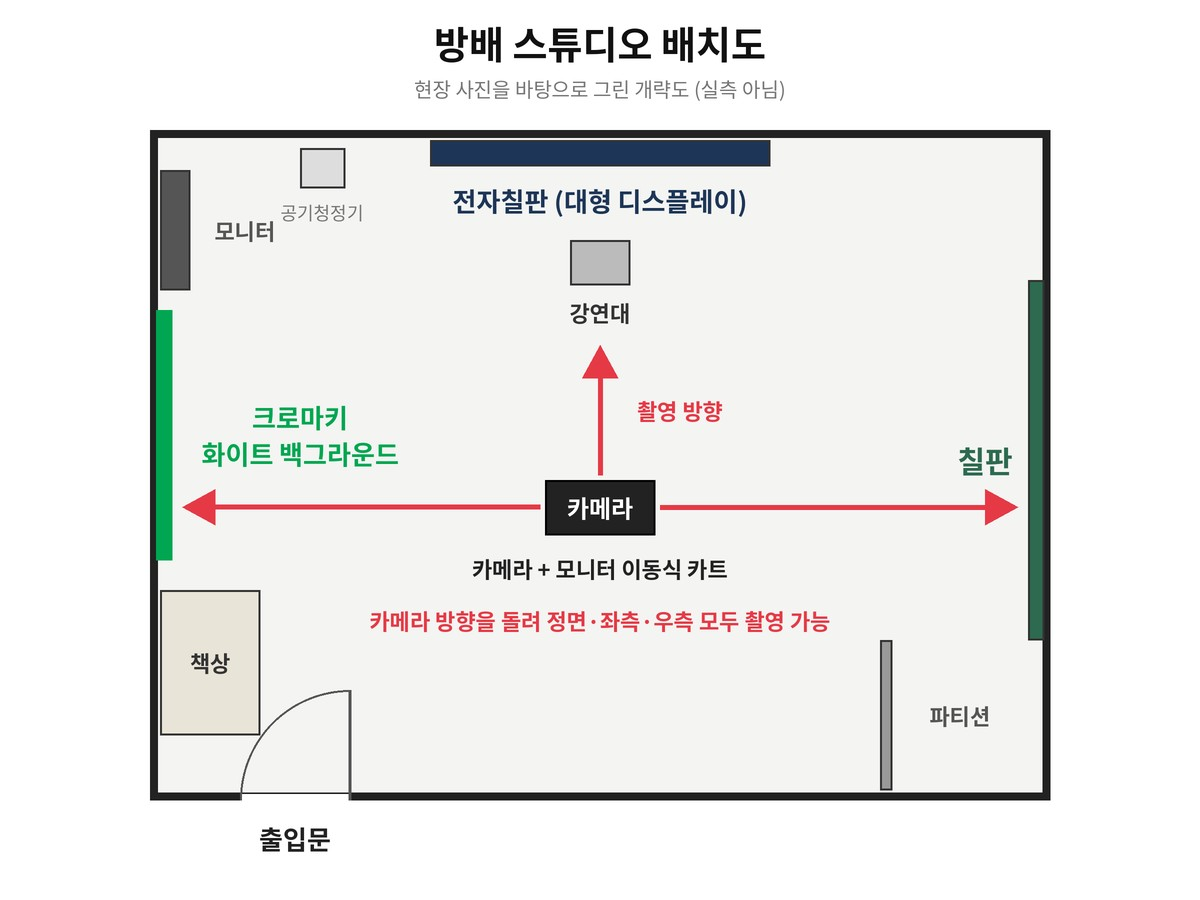
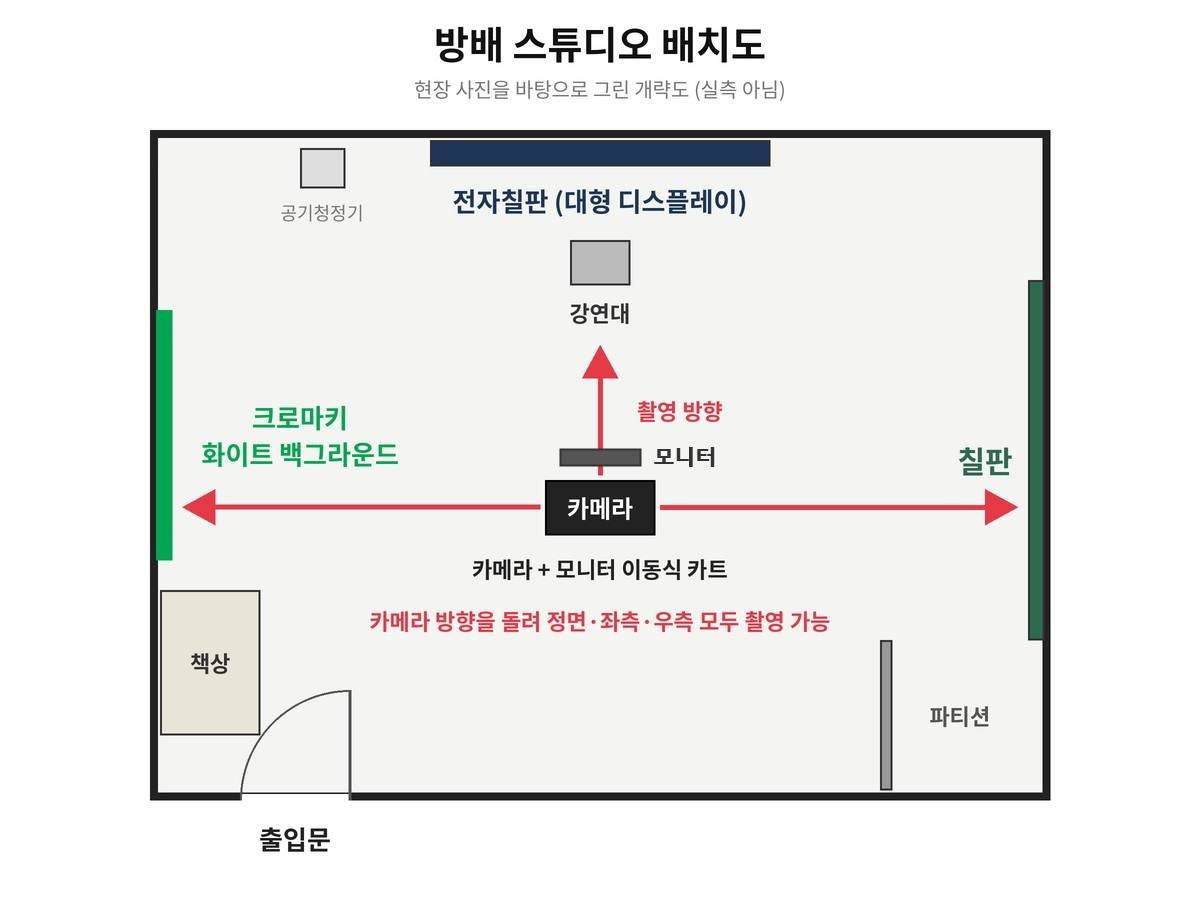
방배 배치도: 좌측 모니터 제거, 카메라 앞에 모니터 배치 / 렌즈 mm 표기
- img/bangbae-floorplan.jpg·webp 수정, 캐시 버전 20261126m
- 장비 DB 렌즈·카메라 비고 mm 표기(운영 D1 직접 수정), 홈·방배점 기본 내용 갱신

Changed region(s): [[0.1233, 0.1867, 0.2467, 0.3422], [0.4625, 0.4978, 0.6167, 0.5289]]

diff --git a/bangbae/index.html b/bangbae/index.html
@@ -262,10 +262,10 @@
             <figcaption>크로마키와 LED 조명</figcaption>
           </figure>
           <figure class="gallery-item gallery-item-plan">
-            <button type="button" class="gallery-open" data-lightbox="bangbae" data-lightbox-src="../img/bangbae-floorplan.jpg?v=20261113h" data-lightbox-alt="방배 스튜디오 배치도" aria-label="스튜디오 배치도 크게 보기">
+            <button type="button" class="gallery-open" data-lightbox="bangbae" data-lightbox-src="../img/bangbae-floorplan.jpg?v=20261126m" data-lightbox-alt="방배 스튜디오 배치도" aria-label="스튜디오 배치도 크게 보기">
               <picture>
-                <source type="image/webp" srcset="../img/bangbae-floorplan.webp?v=20261113h">
-                <img src="../img/bangbae-floorplan.jpg?v=20261113h" alt="방배 스튜디오 배치도" width="1200" height="900" loading="lazy">
+                <source type="image/webp" srcset="../img/bangbae-floorplan.webp?v=20261126m">
+                <img src="../img/bangbae-floorplan.jpg?v=20261126m" alt="방배 스튜디오 배치도" width="1200" height="900" loading="lazy">
               </picture>
             </button>
             <figcaption>스튜디오 배치도 (개략도, 실측 아님)</figcaption>
@@ -323,7 +323,7 @@
         <div class="card">
           <div data-equipment-list="bangbae">
             <section class="eq-group"><h3 class="eq-cat">촬영</h3><ul class="eq-items">
-              <li class="eq-item"><div class="eq-main"><span class="eq-name">카메라</span></div><p class="eq-model">CANON EOS C200, BMPCC 4K</p><p class="eq-note">25 50 등 렌즈 다수</p></li>
+              <li class="eq-item"><div class="eq-main"><span class="eq-name">카메라</span></div><p class="eq-model">CANON EOS C200, BMPCC 4K</p><p class="eq-note">25mm 50mm 등 렌즈 다수</p></li>
               <li class="eq-item"><div class="eq-main"><span class="eq-name">모니터(PGM용)</span></div><p class="eq-model">40인치</p><p class="eq-note">촬영 화면 확인용</p></li>
             </ul></section>
             <section class="eq-group"><h3 class="eq-cat">음향</h3><ul class="eq-items">
@@ -338,7 +338,7 @@
               <li class="eq-item"><div class="eq-main"><span class="eq-name">LED 조명</span></div></li>
             </ul></section>
             <section class="eq-group"><h3 class="eq-cat">렌즈</h3><ul class="eq-items">
-              <li class="eq-item"><div class="eq-main"><span class="eq-name">렌즈</span></div><p class="eq-model">14m 35m 50m 85m 135m 삼양제</p></li>
+              <li class="eq-item"><div class="eq-main"><span class="eq-name">렌즈</span></div><p class="eq-model">14mm 35mm 50mm 85mm 135mm 삼양제</p></li>
             </ul></section>
             <section class="eq-group"><h3 class="eq-cat">판서용 태블릿</h3><ul class="eq-items">
               <li class="eq-item"><div class="eq-main"><span class="eq-name">태블릿 16인치</span></div><p class="eq-model">전자펜 사용 판서용</p></li>

diff --git a/index.html b/index.html
@@ -306,7 +306,7 @@
             <div><dt>음향</dt><dd>마이크 (SONY D1와이어리스, DJI Mini) 1개</dd></div>
             <div><dt>판서</dt><dd>전자칠판 (대형 디스플레이) (75인치 멀티 터치) · 칠판 (법랑칠판 3미터)</dd></div>
             <div><dt>배경·조명</dt><dd>크로마키 배경 (200x100 cm) · LED 조명</dd></div>
-            <div><dt>렌즈</dt><dd>렌즈 (14m 35m 50m 85m 135m 삼양제)</dd></div>
+            <div><dt>렌즈</dt><dd>렌즈 (14mm 35mm 50mm 85mm 135mm 삼양제)</dd></div>
             <div><dt>판서용 태블릿</dt><dd>태블릿 16인치 (전자펜 사용 판서용)</dd></div>
           </dl>
           <a class="eq-summary-link" href="/bangbae/#equipment">세부 장비 내역 보기 →</a>
